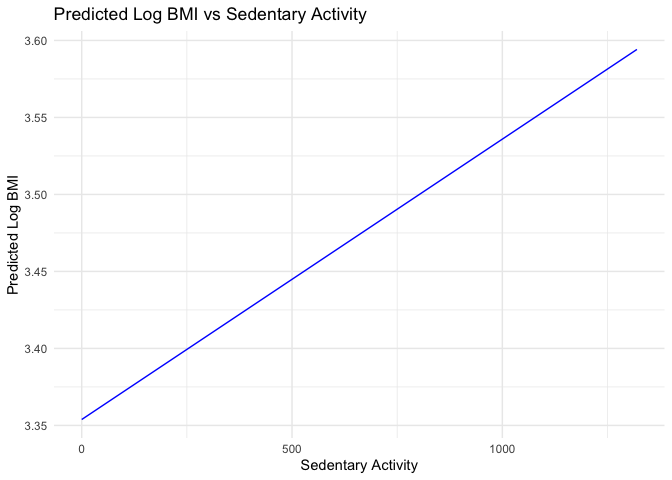
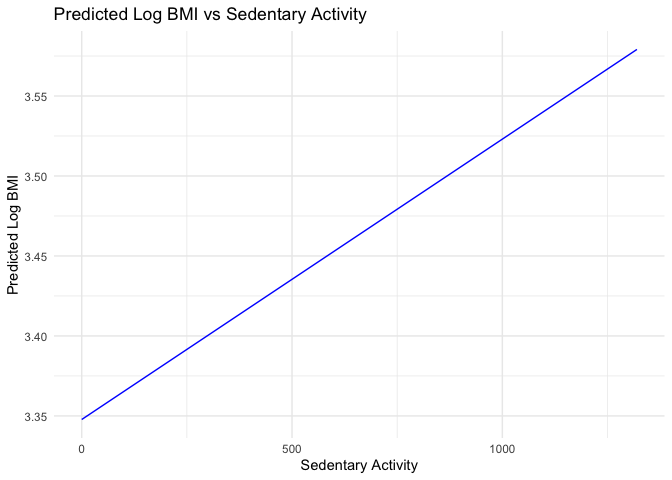
added frozen food consumption models,graphs,plots

diff --git a/p8105-Final-model-analysis.md b/p8105-Final-model-analysis.md
@@ -172,9 +172,9 @@ cv_results |>
     ## # A tibble: 3 × 2
     ##   model_type    m_rmse
     ##   <chr>          <dbl>
-    ## 1 fast_adjusted  0.347
-    ## 2 fast_crude     0.550
-    ## 3 fast_inter     0.395
+    ## 1 fast_adjusted  0.323
+    ## 2 fast_crude     0.498
+    ## 3 fast_inter     0.344
 
 ``` r
 cv_results |> 
@@ -356,24 +356,24 @@ print(best_model_summary)
     ## 
     ## Residuals:
     ##      Min       1Q   Median       3Q      Max 
-    ## -0.72494 -0.15281 -0.00969  0.14830  1.13099 
+    ## -0.74286 -0.15466 -0.00925  0.14627  1.12170 
     ## 
     ## Coefficients:
     ##                                            Estimate Std. Error t value Pr(>|t|)
-    ## (Intercept)                               3.362e+00  1.857e-02 180.990  < 2e-16
-    ## sedentary_activity                        2.007e-04  1.887e-05  10.635  < 2e-16
-    ## age                                       3.282e-04  2.400e-04   1.368  0.17142
-    ## genderMale                               -3.959e-02  7.440e-03  -5.320 1.09e-07
-    ## marital_statusNever married              -3.063e-02  1.054e-02  -2.906  0.00368
-    ## marital_statusWidowed/Divorced/Separated -3.017e-02  9.449e-03  -3.193  0.00142
-    ## raceMexican American                      2.973e-03  1.289e-02   0.231  0.81755
-    ## raceOther                                -1.690e-01  1.512e-02 -11.178  < 2e-16
-    ## raceOther Hispanic                       -1.690e-02  1.322e-02  -1.278  0.20118
-    ## raceWhite                                -4.643e-02  9.215e-03  -5.039 4.90e-07
-    ## educationHigh school graduate             4.930e-03  1.177e-02   0.419  0.67522
-    ## educationLess than 9th grade             -4.696e-03  1.594e-02  -0.295  0.76824
-    ## educationSome college or AA degree        9.473e-03  1.166e-02   0.813  0.41653
-    ## income_to_poverty                         4.742e-04  2.707e-03   0.175  0.86097
+    ## (Intercept)                               3.373e+00  1.875e-02 179.910  < 2e-16
+    ## sedentary_activity                        1.753e-04  1.902e-05   9.215  < 2e-16
+    ## age                                       2.542e-04  2.428e-04   1.047 0.295121
+    ## genderMale                               -4.675e-02  7.506e-03  -6.228 5.19e-10
+    ## marital_statusNever married              -2.834e-02  1.058e-02  -2.679 0.007423
+    ## marital_statusWidowed/Divorced/Separated -2.961e-02  9.662e-03  -3.064 0.002195
+    ## raceMexican American                     -1.085e-02  1.269e-02  -0.855 0.392727
+    ## raceOther                                -1.664e-01  1.519e-02 -10.953  < 2e-16
+    ## raceOther Hispanic                       -1.945e-02  1.339e-02  -1.453 0.146268
+    ## raceWhite                                -3.598e-02  9.357e-03  -3.845 0.000122
+    ## educationHigh school graduate             1.718e-02  1.191e-02   1.442 0.149283
+    ## educationLess than 9th grade              5.379e-03  1.608e-02   0.335 0.737935
+    ## educationSome college or AA degree        2.145e-02  1.173e-02   1.829 0.067442
+    ## income_to_poverty                        -1.433e-03  2.723e-03  -0.526 0.598765
     ##                                             
     ## (Intercept)                              ***
     ## sedentary_activity                       ***
@@ -387,15 +387,15 @@ print(best_model_summary)
     ## raceWhite                                ***
     ## educationHigh school graduate               
     ## educationLess than 9th grade                
-    ## educationSome college or AA degree          
+    ## educationSome college or AA degree       .  
     ## income_to_poverty                           
     ## ---
     ## Signif. codes:  0 '***' 0.001 '**' 0.01 '*' 0.05 '.' 0.1 ' ' 1
     ## 
-    ## Residual standard error: 0.2322 on 4023 degrees of freedom
-    ##   (5073 observations deleted due to missingness)
-    ## Multiple R-squared:  0.06665,    Adjusted R-squared:  0.06363 
-    ## F-statistic:  22.1 on 13 and 4023 DF,  p-value: < 2.2e-16
+    ## Residual standard error: 0.2347 on 4048 degrees of freedom
+    ##   (5048 observations deleted due to missingness)
+    ## Multiple R-squared:  0.06094,    Adjusted R-squared:  0.05793 
+    ## F-statistic: 20.21 on 13 and 4048 DF,  p-value: < 2.2e-16
 
 ``` r
 # Plotting the 'adjusted' model's fitted values vs. residuals
@@ -463,17 +463,213 @@ response variable is log-transformed, the interpretation is in terms of
 percentage change (for continuous predictors) or relative percentage
 difference (for categorical predictors) in BMI.
 
-# Cross-Validation and Model Comparison for Predicting BMI Based on Frozen Fast Food Frequency
+# Cross-Validation and Model Buildup for Predicting BMI Based on Frozen Fast Food Frequency
 
 ``` r
-cv_results =
-  cv_df |> 
+cv_df_frozen = 
+  obesity |> 
+  crossv_mc(n = 100) |> 
   mutate(
-    model_frozen = map(train, \(df) lm(log(bmi) ~ freq_frozen*education + freq_frozen*income_to_poverty + freq_frozen + age + gender + marital_status + race + education + income_to_poverty, data = df))
+    train = map(train, as_tibble),
+    test = map(test, as_tibble)
+  )
+```
+
+# Model building for frozen fast food with log(BMI)
+
+``` r
+cv_results_frozen =
+  cv_df_frozen |> 
+  mutate(
+    model_frozen_crude = map(train, \(df) lm(log(bmi) ~ freq_frozen, data = df)),
+    model_frozen_adjusted = map(train, \(df) lm(log(bmi) ~ freq_frozen + age + gender + marital_status + race + education + income_to_poverty, data = df)),
+    model_frozen_inter = map(train, \(df) lm(log(bmi) ~ freq_frozen * education + freq_frozen * income_to_poverty + freq_frozen + age + gender + marital_status + race + education + income_to_poverty, data = df))
   ) |> 
   mutate(
-    rmse_frozen = map2_dbl(model_frozen, test, \(mod, df) rmse(mod, df)))
+    rmse_frozen_crude = map2_dbl(model_frozen_crude, test, \(mod, df) rmse(mod, df)),
+    rmse_frozen_adjusted = map2_dbl(model_frozen_adjusted, test, \(mod, df) rmse(mod, df)),
+    rmse_frozen_inter = map2_dbl(model_frozen_inter, test, \(mod, df) rmse(mod, df))
+  )
 ```
+
+# Cross-validation comparison
+
+``` r
+cv_results_frozen |> 
+  select(starts_with("rmse_frozen")) |> 
+  pivot_longer(
+    everything(),
+    names_to = "model_type",
+    values_to = "rmse",
+    names_prefix = "rmse_frozen_"
+  ) |> 
+  ggplot(aes(x = model_type, y = rmse)) +
+  geom_violin()
+```
+
+![](p8105-Final-model-analysis_files/figure-gfm/unnamed-chunk-5-1.png)<!-- -->
+
+# Summary of Cross-Validation Results
+
+``` r
+cv_results_frozen |> 
+  select(starts_with("rmse_frozen")) |> 
+  pivot_longer(
+    everything(),
+    names_to = "model_type",
+    values_to = "rmse",
+    names_prefix = "rmse_frozen_"
+  ) |> 
+  group_by(model_type) |> 
+  summarize(m_rmse = mean(rmse))
+```
+
+    ## # A tibble: 3 × 2
+    ##   model_type m_rmse
+    ##   <chr>       <dbl>
+    ## 1 adjusted    0.243
+    ## 2 crude       0.309
+    ## 3 inter       0.336
+
+# Model Plot for Adjusted Model
+
+# Generate new data for plotting
+
+``` r
+obesity$marital_status <- factor(obesity$marital_status)
+obesity$race <- factor(obesity$race)
+obesity$education <- factor(obesity$education)
+
+new_data_frozen <- expand.grid(
+  freq_frozen = seq(min(obesity$freq_frozen, na.rm = TRUE), max(obesity$freq_frozen, na.rm = TRUE), length.out = 100),
+  age = mean(obesity$age, na.rm = TRUE),
+  gender = levels(obesity$gender)[1],
+  marital_status = levels(obesity$marital_status)[1],
+  race = levels(obesity$race)[1],
+  education = levels(obesity$education)[1],
+  income_to_poverty = mean(obesity$income_to_poverty, na.rm = TRUE)
+)
+
+str(new_data_frozen)
+```
+
+    ## 'data.frame':    100 obs. of  7 variables:
+    ##  $ freq_frozen      : num  0 67.3 134.7 202 269.3 ...
+    ##  $ age              : num  35.6 35.6 35.6 35.6 35.6 ...
+    ##  $ gender           : Factor w/ 1 level "Female": 1 1 1 1 1 1 1 1 1 1 ...
+    ##  $ marital_status   : Factor w/ 1 level "Married": 1 1 1 1 1 1 1 1 1 1 ...
+    ##  $ race             : Factor w/ 1 level "Black": 1 1 1 1 1 1 1 1 1 1 ...
+    ##  $ education        : Factor w/ 1 level "9-11th grade": 1 1 1 1 1 1 1 1 1 1 ...
+    ##  $ income_to_poverty: num  2.42 2.42 2.42 2.42 2.42 ...
+    ##  - attr(*, "out.attrs")=List of 2
+    ##   ..$ dim     : Named int [1:7] 100 1 1 1 1 1 1
+    ##   .. ..- attr(*, "names")= chr [1:7] "freq_frozen" "age" "gender" "marital_status" ...
+    ##   ..$ dimnames:List of 7
+    ##   .. ..$ freq_frozen      : chr [1:100] "freq_frozen=   0.00000" "freq_frozen=  67.33333" "freq_frozen= 134.66667" "freq_frozen= 202.00000" ...
+    ##   .. ..$ age              : chr "age=35.62302"
+    ##   .. ..$ gender           : chr "gender=Female"
+    ##   .. ..$ marital_status   : chr "marital_status=Married"
+    ##   .. ..$ race             : chr "race=Black"
+    ##   .. ..$ education        : chr "education=9-11th grade"
+    ##   .. ..$ income_to_poverty: chr "income_to_poverty=2.42299"
+
+# Predict log(BMI) using the adjusted model and the new data
+
+``` r
+adjusted_model_frozen <- cv_results_frozen$model_frozen_adjusted[[1]]
+new_data_frozen$log_bmi_pred <- predict(adjusted_model_frozen, newdata = new_data_frozen)
+
+# Plot the predicted values
+ggplot(new_data_frozen, aes(x = freq_frozen, y = log_bmi_pred)) +
+  geom_line(color = "purple") +
+  labs(title = "Predicted Log BMI vs Frozen Fast Food Frequency",
+       x = "Frozen Fast Food Frequency",
+       y = "Predicted Log BMI") +
+  theme_minimal()
+```
+
+![](p8105-Final-model-analysis_files/figure-gfm/unnamed-chunk-8-1.png)<!-- -->
+\# Summary of the best ‘adjusted’ model from cross-validation
+
+``` r
+best_adjusted_model_summary <- cv_results_frozen$model_frozen_adjusted[[1]] %>% summary()
+
+# Print the summary which includes coefficients, R-squared, p-values...
+print(best_adjusted_model_summary)
+```
+
+    ## 
+    ## Call:
+    ## lm(formula = log(bmi) ~ freq_frozen + age + gender + marital_status + 
+    ##     race + education + income_to_poverty, data = df)
+    ## 
+    ## Residuals:
+    ##      Min       1Q   Median       3Q      Max 
+    ## -0.77008 -0.15912 -0.00805  0.14561  1.10981 
+    ## 
+    ## Coefficients:
+    ##                                            Estimate Std. Error t value Pr(>|t|)
+    ## (Intercept)                               3.409e+00  1.828e-02 186.500  < 2e-16
+    ## freq_frozen                              -4.291e-06  2.510e-05  -0.171  0.86427
+    ## age                                       1.858e-04  2.437e-04   0.762  0.44584
+    ## genderMale                               -3.741e-02  7.543e-03  -4.960 7.34e-07
+    ## marital_statusNever married              -2.461e-02  1.067e-02  -2.308  0.02106
+    ## marital_statusWidowed/Divorced/Separated -2.941e-02  9.630e-03  -3.054  0.00227
+    ## raceMexican American                      3.671e-03  1.288e-02   0.285  0.77574
+    ## raceOther                                -1.553e-01  1.553e-02  -9.999  < 2e-16
+    ## raceOther Hispanic                       -2.401e-02  1.316e-02  -1.824  0.06818
+    ## raceWhite                                -2.382e-02  9.382e-03  -2.539  0.01117
+    ## educationHigh school graduate             1.253e-02  1.190e-02   1.053  0.29238
+    ## educationLess than 9th grade              6.078e-03  1.628e-02   0.373  0.70897
+    ## educationSome college or AA degree        2.402e-02  1.176e-02   2.042  0.04123
+    ## income_to_poverty                         2.054e-03  2.742e-03   0.749  0.45381
+    ##                                             
+    ## (Intercept)                              ***
+    ## freq_frozen                                 
+    ## age                                         
+    ## genderMale                               ***
+    ## marital_statusNever married              *  
+    ## marital_statusWidowed/Divorced/Separated ** 
+    ## raceMexican American                        
+    ## raceOther                                ***
+    ## raceOther Hispanic                       .  
+    ## raceWhite                                *  
+    ## educationHigh school graduate               
+    ## educationLess than 9th grade                
+    ## educationSome college or AA degree       *  
+    ## income_to_poverty                           
+    ## ---
+    ## Signif. codes:  0 '***' 0.001 '**' 0.01 '*' 0.05 '.' 0.1 ' ' 1
+    ## 
+    ## Residual standard error: 0.2363 on 4049 degrees of freedom
+    ##   (5047 observations deleted due to missingness)
+    ## Multiple R-squared:  0.03455,    Adjusted R-squared:  0.03146 
+    ## F-statistic: 11.15 on 13 and 4049 DF,  p-value: < 2.2e-16
+
+# Create a residuals plot for the ‘adjusted’ model
+
+``` r
+adjusted_model <- cv_results_frozen$model_frozen_adjusted[[1]]
+adjusted_model_residuals <- resid(adjusted_model)
+adjusted_model_fitted <- fitted(adjusted_model)
+
+# Plot the residuals against the fitted values
+residual_plot <- ggplot() +
+  geom_point(aes(x = adjusted_model_fitted, y = adjusted_model_residuals)) +
+  geom_hline(yintercept = 0, linetype = "dashed", color = "red") +
+  labs(title = "Residuals vs Fitted Values for Adjusted Model",
+       x = "Fitted Values",
+       y = "Residuals") +
+  theme_minimal() +
+  geom_smooth(aes(x = adjusted_model_fitted, y = adjusted_model_residuals), method = "loess", se = FALSE)
+
+# Print the residual plot
+print(residual_plot)
+```
+
+    ## `geom_smooth()` using formula = 'y ~ x'
+
+![](p8105-Final-model-analysis_files/figure-gfm/unnamed-chunk-10-1.png)<!-- -->
 
 # Regression Models and Diagnostics
 
@@ -491,7 +687,7 @@ obesity |> modelr::add_residuals(freq_fast_crude) |>
 
     ## Warning: Removed 2345 rows containing non-finite values (`stat_qq_line()`).
 
-![](p8105-Final-model-analysis_files/figure-gfm/unnamed-chunk-4-1.png)<!-- -->
+![](p8105-Final-model-analysis_files/figure-gfm/unnamed-chunk-11-1.png)<!-- -->
 
 Model2: log(BMI)=sedentary activity
 
@@ -507,7 +703,7 @@ obesity |> modelr::add_residuals(inactivity_crude) |>
 
     ## Warning: Removed 3879 rows containing non-finite values (`stat_qq_line()`).
 
-![](p8105-Final-model-analysis_files/figure-gfm/unnamed-chunk-5-1.png)<!-- -->
+![](p8105-Final-model-analysis_files/figure-gfm/unnamed-chunk-12-1.png)<!-- -->
 
 Model3: log(BMI)=freqence of frozen
 
@@ -524,4 +720,4 @@ obesity |> modelr::add_residuals(freq_frozen_crude) |>
 
     ## Warning: Removed 38 rows containing non-finite values (`stat_qq_line()`).
 
-![](p8105-Final-model-analysis_files/figure-gfm/unnamed-chunk-6-1.png)<!-- -->
+![](p8105-Final-model-analysis_files/figure-gfm/unnamed-chunk-13-1.png)<!-- -->
